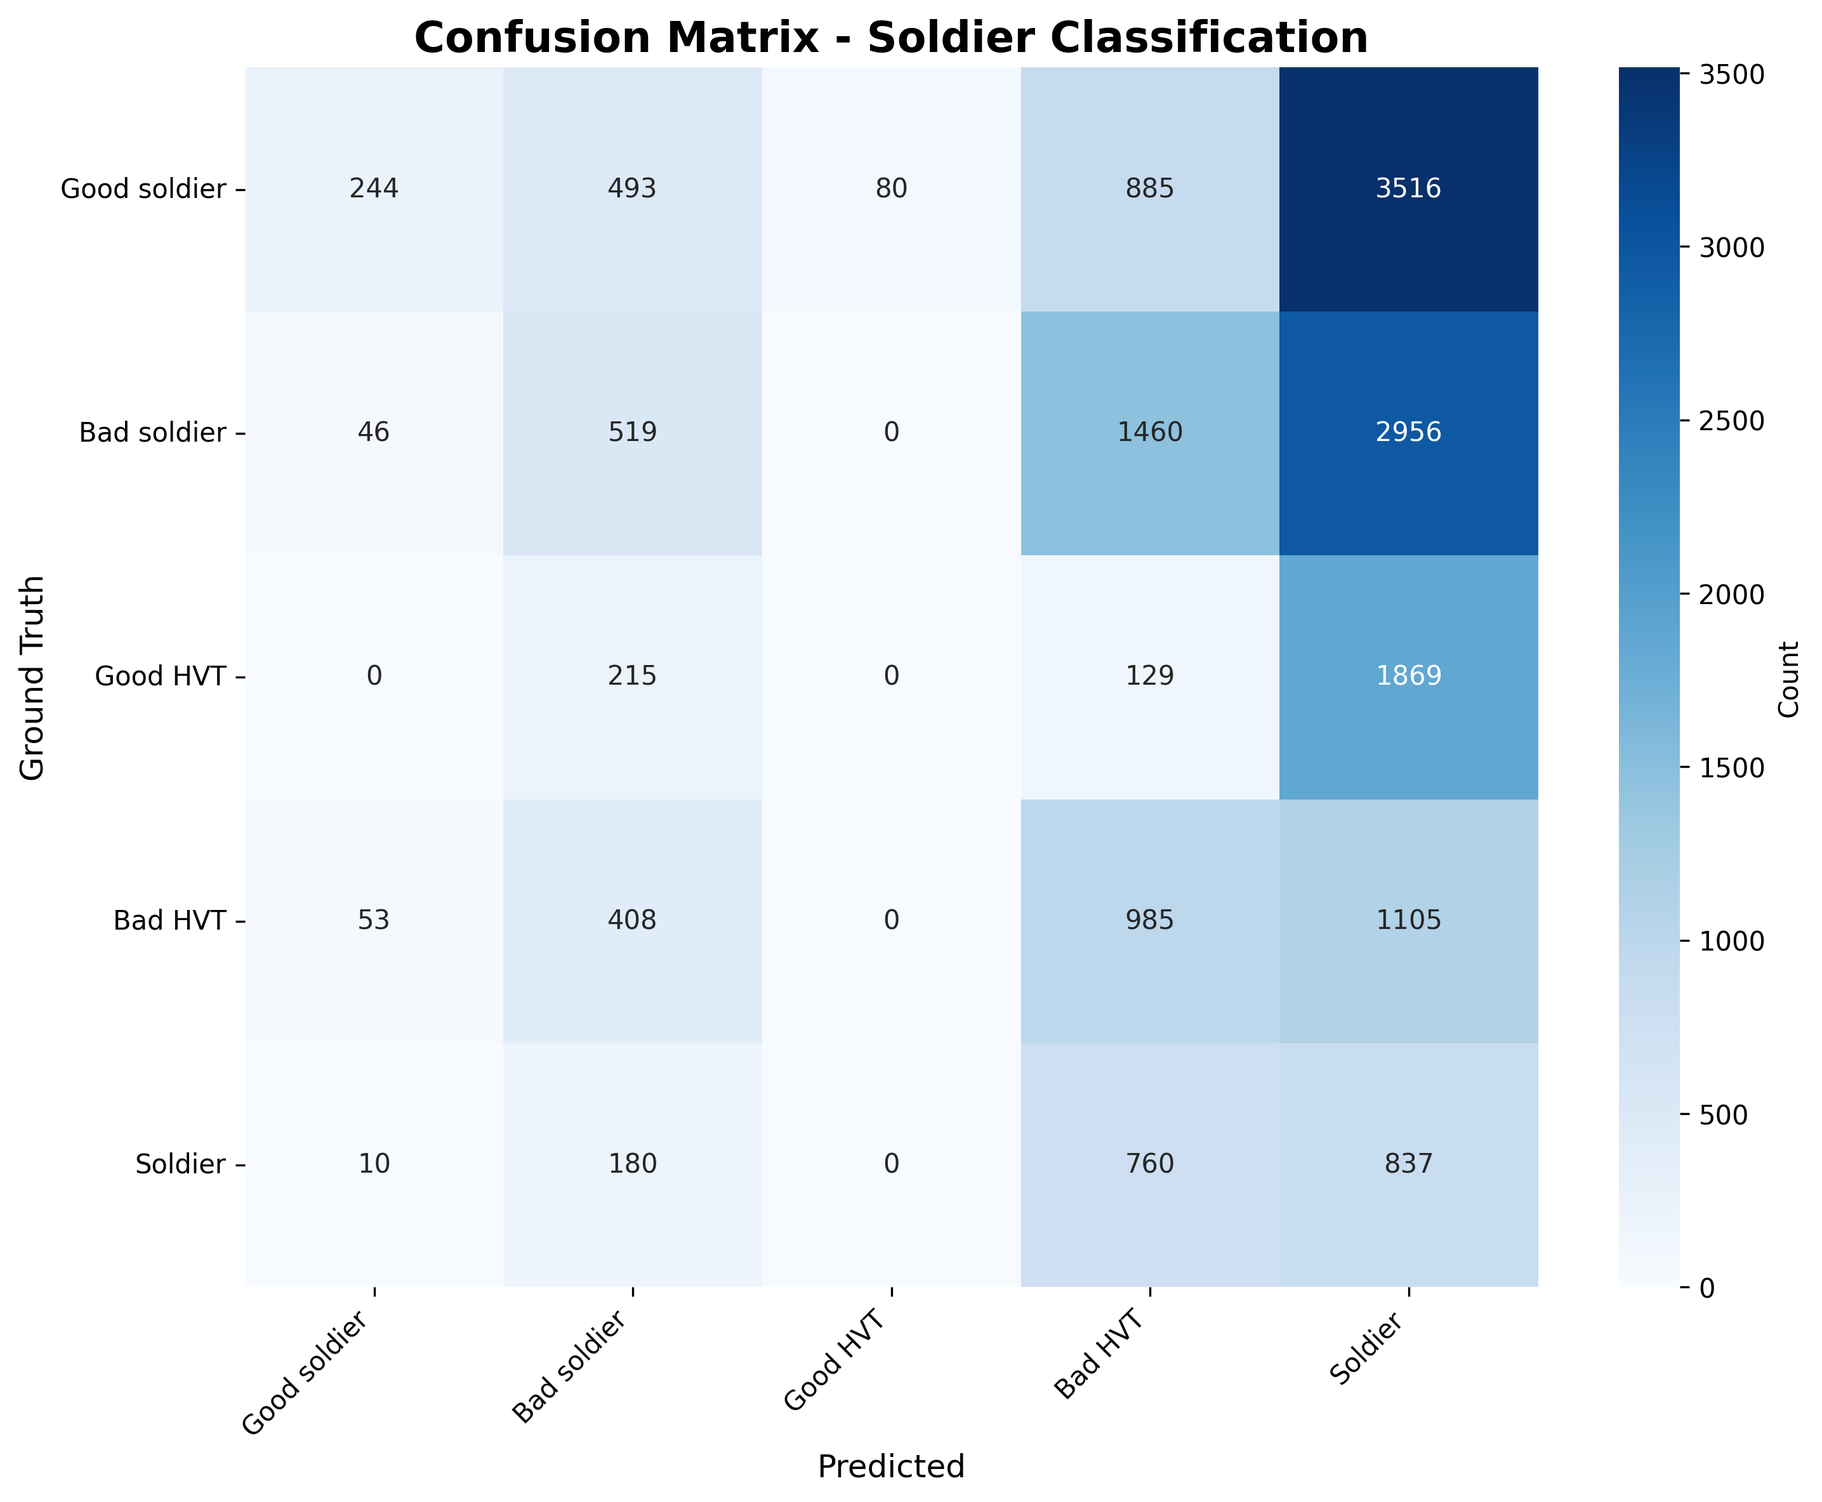
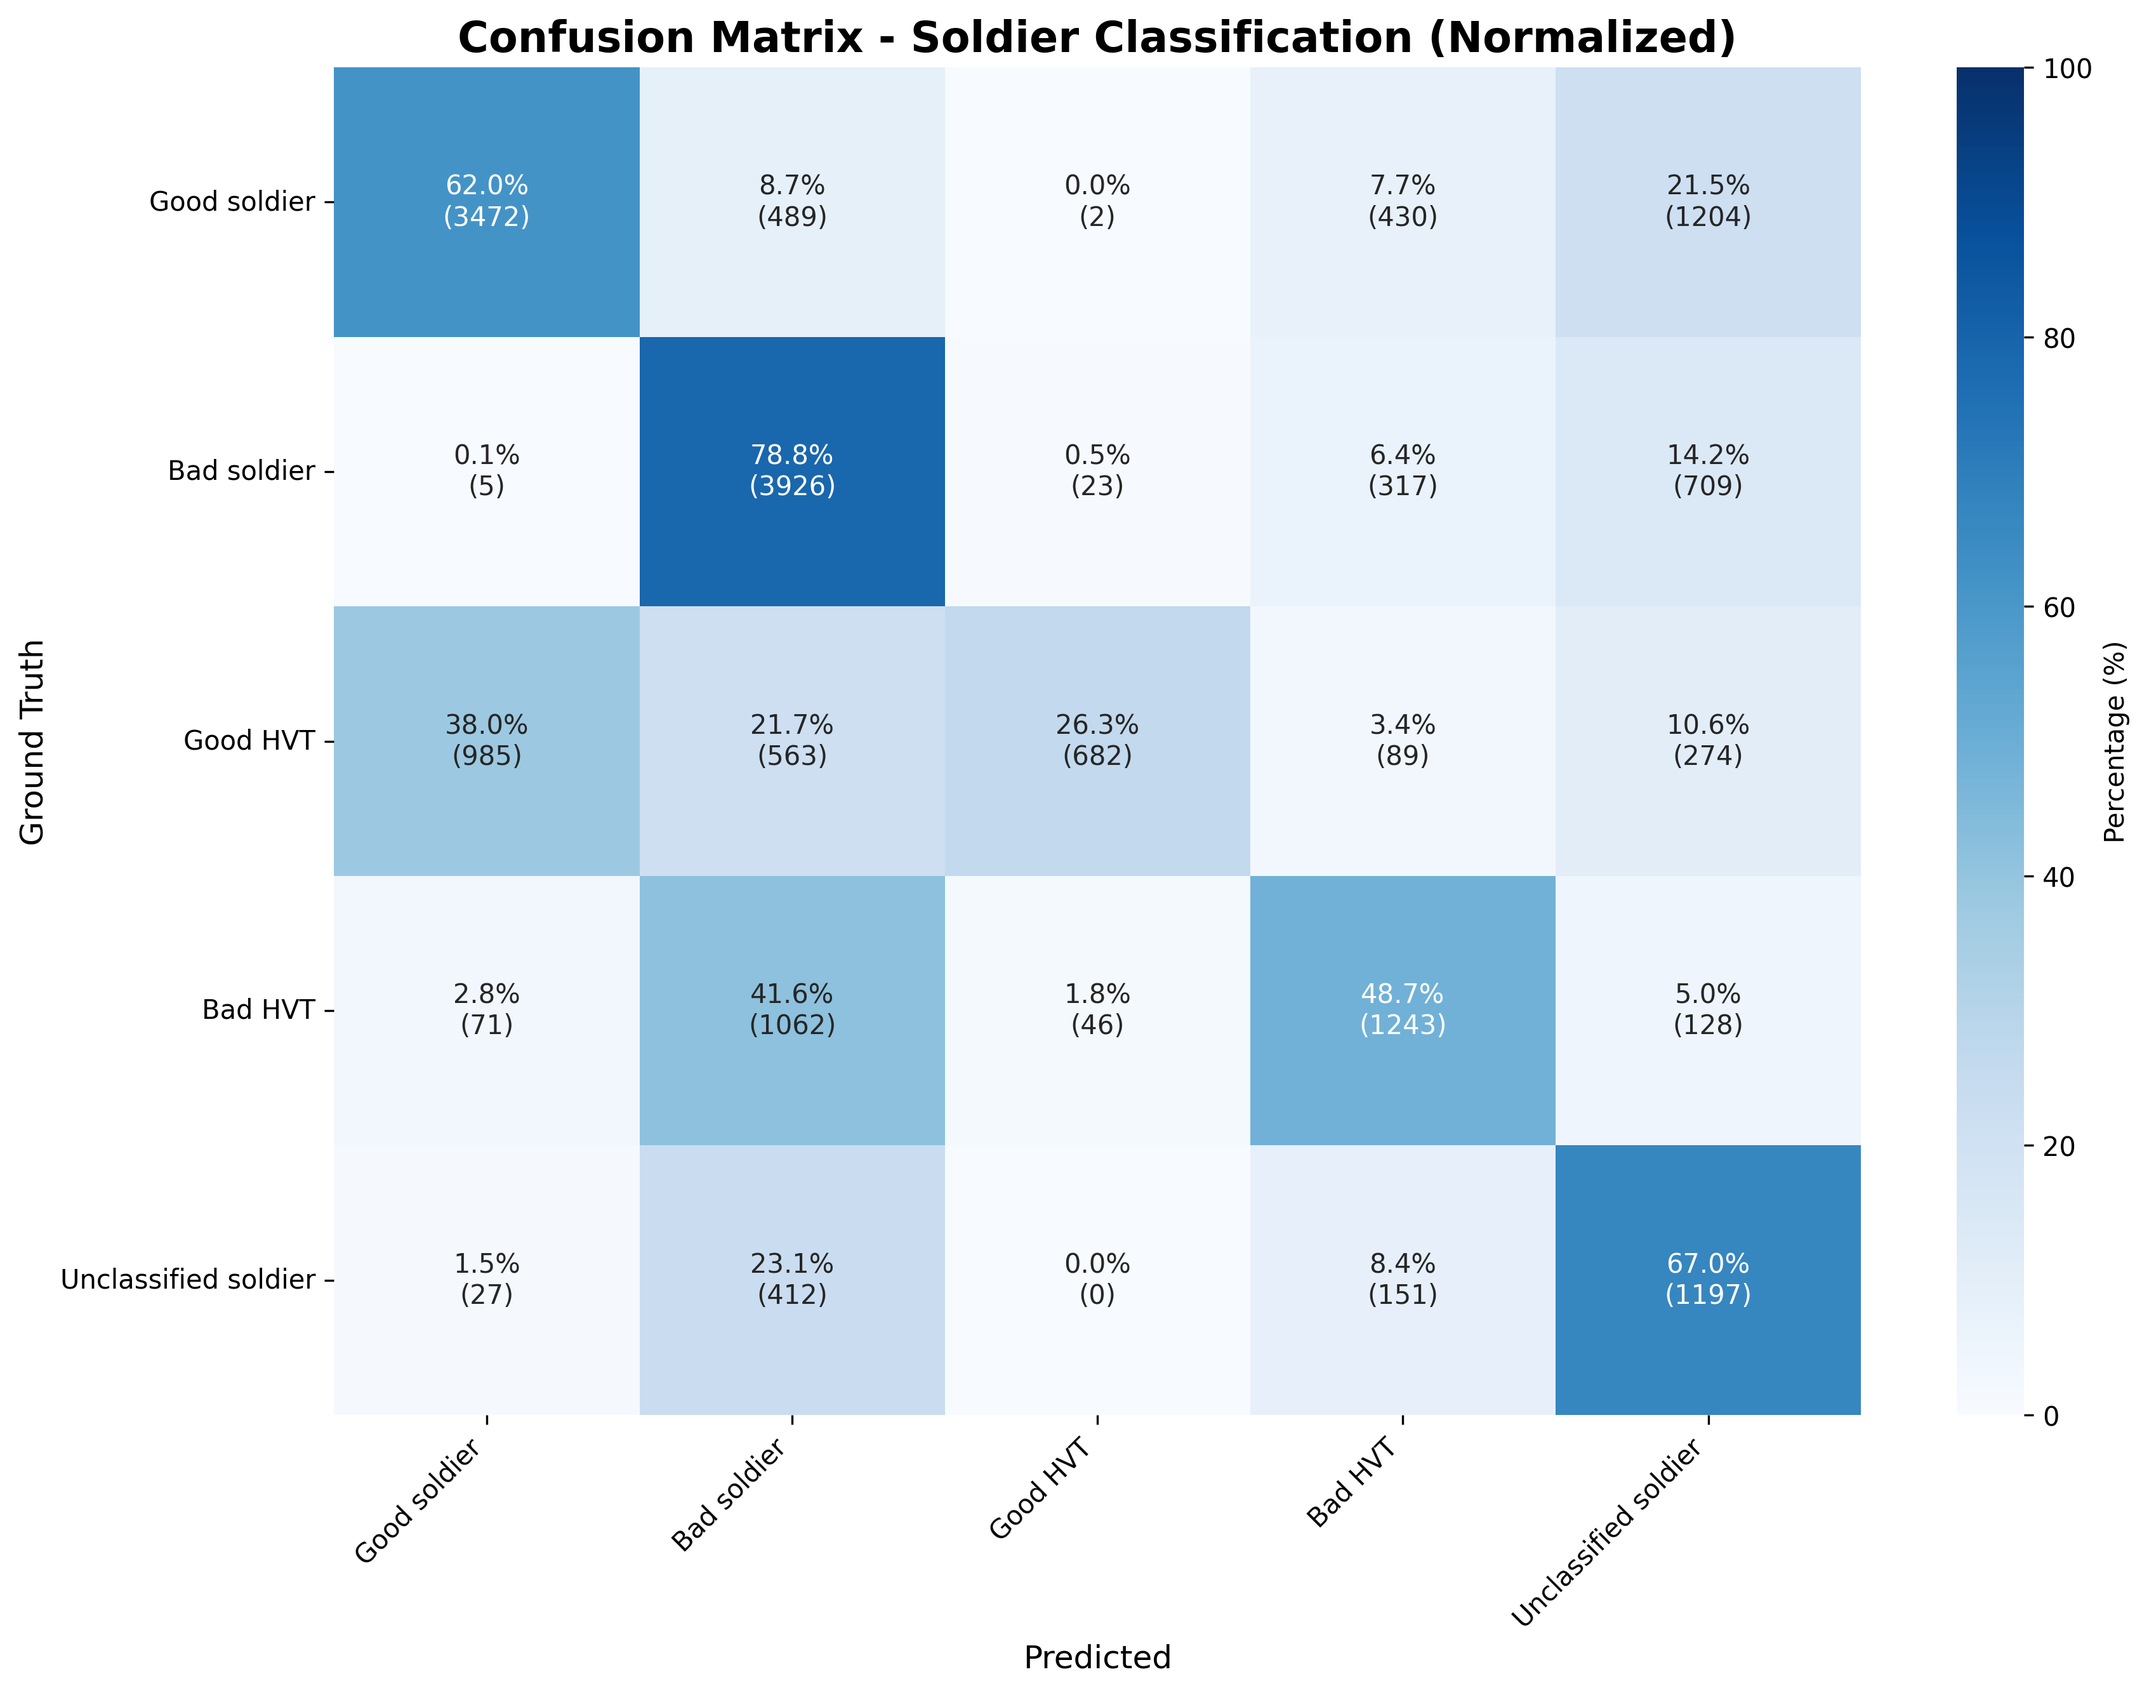
fefew

diff --git a/Test find_armbond.py b/Test find_armbond.py
@@ -9,11 +9,11 @@ import seaborn as sns
 # Define multiple video/annotation pairs
 DATASET = [
     {
-        "video": r"C:\Users\olafa\Documents\GitHub\ROB3-Droneprojekt\ProjektVideoer\2 militær med blå bånd .MP4",
+        "video": r"C:\Users\olafa\Documents\GitHub\ROB3-Droneprojekt\ProjektVideoer\3 mili 2 onde 1 god.MP4",
         "json": r"C:\Users\olafa\Documents\GitHub\ROB3-Droneprojekt\Testing\3mili 2 onde 1 god.json"
     },
     {
-        "video": r"C:\Users\olafa\Documents\GitHub\ROB3-Droneprojekt\ProjektVideoer\3 mili 2 onde 1 god.MP4",
+        "video": r"C:\Users\olafa\Documents\GitHub\ROB3-Droneprojekt\ProjektVideoer\2 mili en idiot der ligger ned.MP4",
         "json": r"C:\Users\olafa\Documents\GitHub\ROB3-Droneprojekt\Testing\2 mili og 1 idiot.json"
     }
     # Add more video/json pairs here as needed
@@ -76,27 +76,43 @@ def normalize_prediction(classification):
     elif 'Bad soldier' in classification:
         return 'Bad soldier'
     else:
-        return 'Soldier'
+        return 'Soldier'  # Changed from 'Unclassified soldier' to match ground truth label
 
 def plot_confusion_matrix(y_true, y_pred, output_path):
     """Generate and save confusion matrix as PNG"""
-    # Define class order
+    # Define class order - include all possible classes
     labels = ['Good soldier', 'Bad soldier', 'Good HVT', 'Bad HVT', 'Soldier']
     
     # Filter to only include labels that appear in the data
     unique_labels = sorted(set(y_true + y_pred))
     labels = [l for l in labels if l in unique_labels]
     
-    # Compute confusion matrix
+    # Debug: show which labels appear
+    print(f"\nLabels in ground truth (y_true): {sorted(set(y_true))}")
+    print(f"Labels in predictions (y_pred): {sorted(set(y_pred))}")
+    print(f"Labels used in confusion matrix: {labels}")
+    
+    # Compute confusion matrix (raw counts)
     cm = confusion_matrix(y_true, y_pred, labels=labels)
     
-    # Create figure
-    plt.figure(figsize=(10, 8))
-    sns.heatmap(cm, annot=True, fmt='d', cmap='Blues', 
-                xticklabels=labels, yticklabels=labels,
-                cbar_kws={'label': 'Count'})
+    # Normalize confusion matrix to percentages (row-wise normalization)
+    cm_normalized = cm.astype('float') / cm.sum(axis=1)[:, np.newaxis] * 100
     
-    plt.title('Confusion Matrix - Soldier Classification', fontsize=16, fontweight='bold')
+    # Create annotations with both percentage and count
+    annotations = np.array([[f'{cm_normalized[i,j]:.1f}%\n({cm[i,j]})' 
+                            for j in range(cm.shape[1])] 
+                           for i in range(cm.shape[0])])
+    
+    # Create display labels (replace "Soldier" with "Unclassified soldier" for display only)
+    display_labels = ['Unclassified soldier' if l == 'Soldier' else l for l in labels]
+    
+    # Create figure
+    plt.figure(figsize=(12, 9))
+    sns.heatmap(cm_normalized, annot=annotations, fmt='', cmap='Blues', 
+                xticklabels=display_labels, yticklabels=display_labels,
+                cbar_kws={'label': 'Percentage (%)'}, vmin=0, vmax=100)
+    
+    plt.title('Confusion Matrix - Soldier Classification (Normalized)', fontsize=16, fontweight='bold')
     plt.ylabel('Ground Truth', fontsize=12)
     plt.xlabel('Predicted', fontsize=12)
     plt.xticks(rotation=45, ha='right')
@@ -249,10 +265,33 @@ def crop_to_bbox(img, bbox):
     h = min(h, img_h - y)
     return img[y:y+h, x:x+w]
 
+def crop_image(img):
+    # --- vertical crop: remove top portion and keep a top block ---
+    TOP_REMOVE_RATIO = 0.25  # remove top 25% of original
+    TOP_KEEP_RATIO = 0.5     # keep up to 50% of original (rows start_row .. end_row)
+    h = img.shape[0]
+    start_row = int(h * TOP_REMOVE_RATIO)
+    end_row = int(h * TOP_KEEP_RATIO)
+    if start_row >= end_row:
+        img = img[:int(h * TOP_KEEP_RATIO), :]
+    else:
+        img = img[start_row:end_row, :]
+
+    # --- horizontal crop: remove 5% from each side (margin) ---
+    WIDTH_REMOVE_RATIO = 0.1  # remove 10% from left and 10% from right
+    w = img.shape[1]
+    left = int(w * WIDTH_REMOVE_RATIO)
+    right = int(w * (1.0 - WIDTH_REMOVE_RATIO))
+    if left < right:
+        img = img[:, left:right]
+    return img
+
 def process_bbox_region(bbox_img):
     """Process a bounding box region: crop, blur, and analyze"""
     if bbox_img is None or bbox_img.size == 0:
         return None, [], []
+    
+    bbox_img = crop_image(bbox_img)
     
     # Apply Gaussian blur
     blurred = cv2.GaussianBlur(bbox_img, (13, 13), 0)
@@ -299,6 +338,7 @@ def process_video(video_path, json_path, scale=0.5, show_video=True):
     
     frame_idx = 0
     processed_count = 0
+    skipped_civilians = 0  # Track how many civilians we skip
     
     # Storage for confusion matrix
     y_true = []  # Ground truth labels
@@ -328,6 +368,14 @@ def process_video(video_path, json_path, scale=0.5, show_video=True):
         if annotations:
             # Process each bounding box in this frame
             for ann in annotations:
+                # Get ground truth label first to check if we should skip this annotation
+                ground_truth = get_ground_truth_label(ann)
+                
+                # Skip civilians - we only want to classify military targets
+                if ground_truth == 'Civilian':
+                    skipped_civilians += 1
+                    continue
+                
                 bbox = ann['bbox']  # [x, y, width, height]
                 x, y, w_box, h_box = [int(v) for v in bbox]
                 
@@ -342,8 +390,6 @@ def process_video(video_path, json_path, scale=0.5, show_video=True):
                         # Classify the target
                         classification, target_type, is_hvt = classify_target(red_boxes, blue_boxes)
                         
-                        # Get ground truth label
-                        ground_truth = get_ground_truth_label(ann)
                         predicted = normalize_prediction(classification)
                         
                         # Store for confusion matrix
@@ -401,12 +447,15 @@ def process_video(video_path, json_path, scale=0.5, show_video=True):
                 print(f"Processing frame {frame_idx}/{total_frames}...")
         
         frame_idx += 1
-    
     cap.release()
     if show_video:
         cv2.destroyAllWindows()
-    print(f"\nProcessing complete! Processed {processed_count} frames with annotations.")
+    print(f"\nProcessing complete!")
+    print(f"  - Processed {processed_count} frames with annotations")
+    print(f"  - Skipped {skipped_civilians} civilian bounding boxes")
+    print(f"  - Collected {len(y_true)} military target predictions")
     
+    return y_true, y_pred
     return y_true, y_pred
 
 

diff --git a/find_armbod.py b/find_armbod.py
@@ -136,6 +136,9 @@ def classify_target(red_boxes, blue_boxes):
 
 def crop_image(img):
     # --- vertical crop: remove top portion and keep a top block ---
+    TOP_REMOVE_RATIO = 0.0  # remove top 25% of original
+def crop_image(img):
+    # --- vertical crop: remove top portion and keep a top block ---
     TOP_REMOVE_RATIO = 0.25  # remove top 25% of original
     TOP_KEEP_RATIO = 0.5     # keep up to 50% of original (rows start_row .. end_row)
     h = img.shape[0]
@@ -160,7 +163,7 @@ def process_image(image_path):
     if img is None:
         raise ValueError(f"Could not read image at {image_path}")
 
-    img = crop_image(img)
+    #img = crop_image(img)
 
     # blur color image 
     blurred = cv2.GaussianBlur(img, (5,5), 0)

diff --git a/overlay_coco_annotations.py b/overlay_coco_annotations.py
@@ -3,8 +3,8 @@ import json
 import os
 
 # Configuration
-VIDEO_PATH = r"C:\Users\olafa\Documents\GitHub\ROB3-Droneprojekt\ProjektVideoer\2 militær med blå bånd .MP4"  # Update with your video filename
-COCO_JSON = r"C:\Users\olafa\Documents\GitHub\ROB3-Droneprojekt\Validation\2 mili med blå bond.json"
+VIDEO_PATH = r"C:\Users\olafa\Documents\GitHub\ROB3-Droneprojekt\ProjektVideoer\3 mili 2 onde 1 god.MP4"  # Update with your video filename
+COCO_JSON = r"C:\Users\olafa\Documents\GitHub\ROB3-Droneprojekt\Testing\3mili 2 onde 1 god.json"
 OUTPUT_VIDEO = "Output/annotated_video.mp4"
 
 # Colors for different classes (BGR format)
